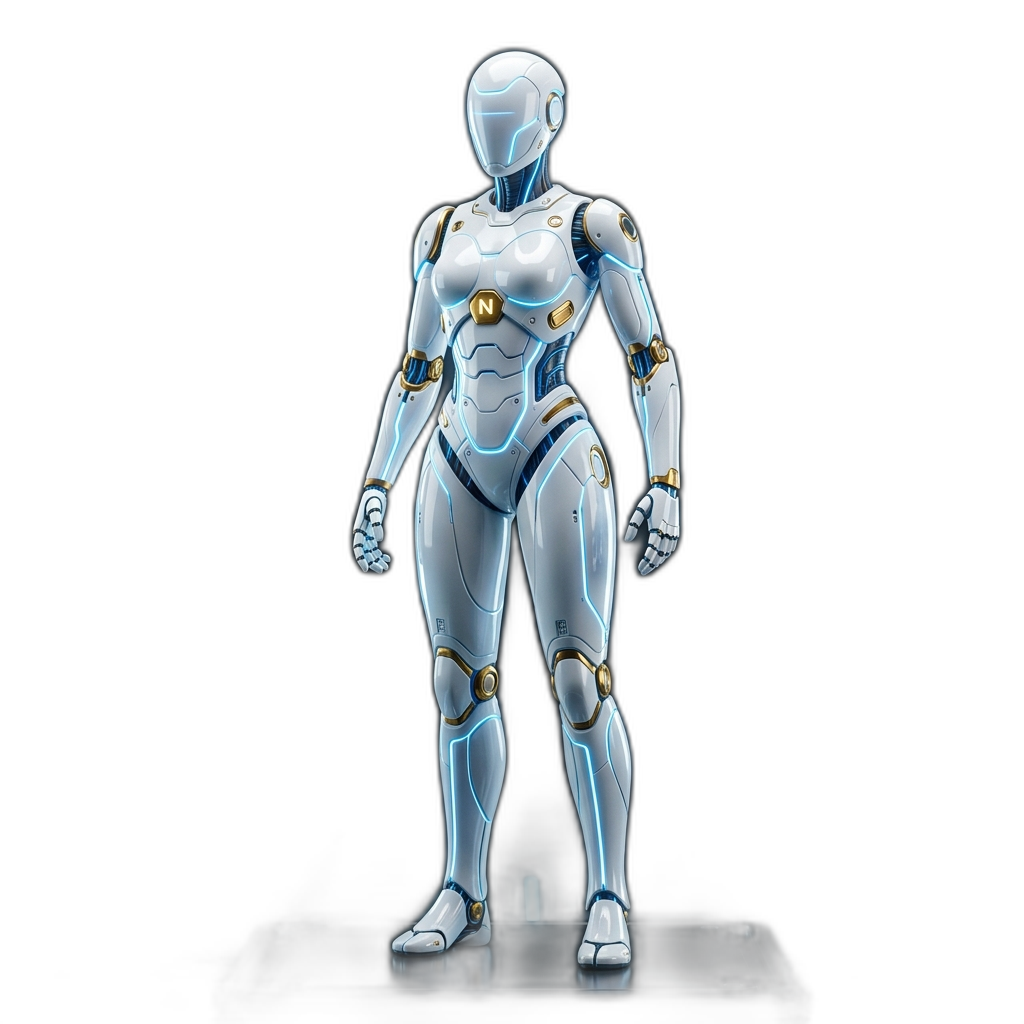
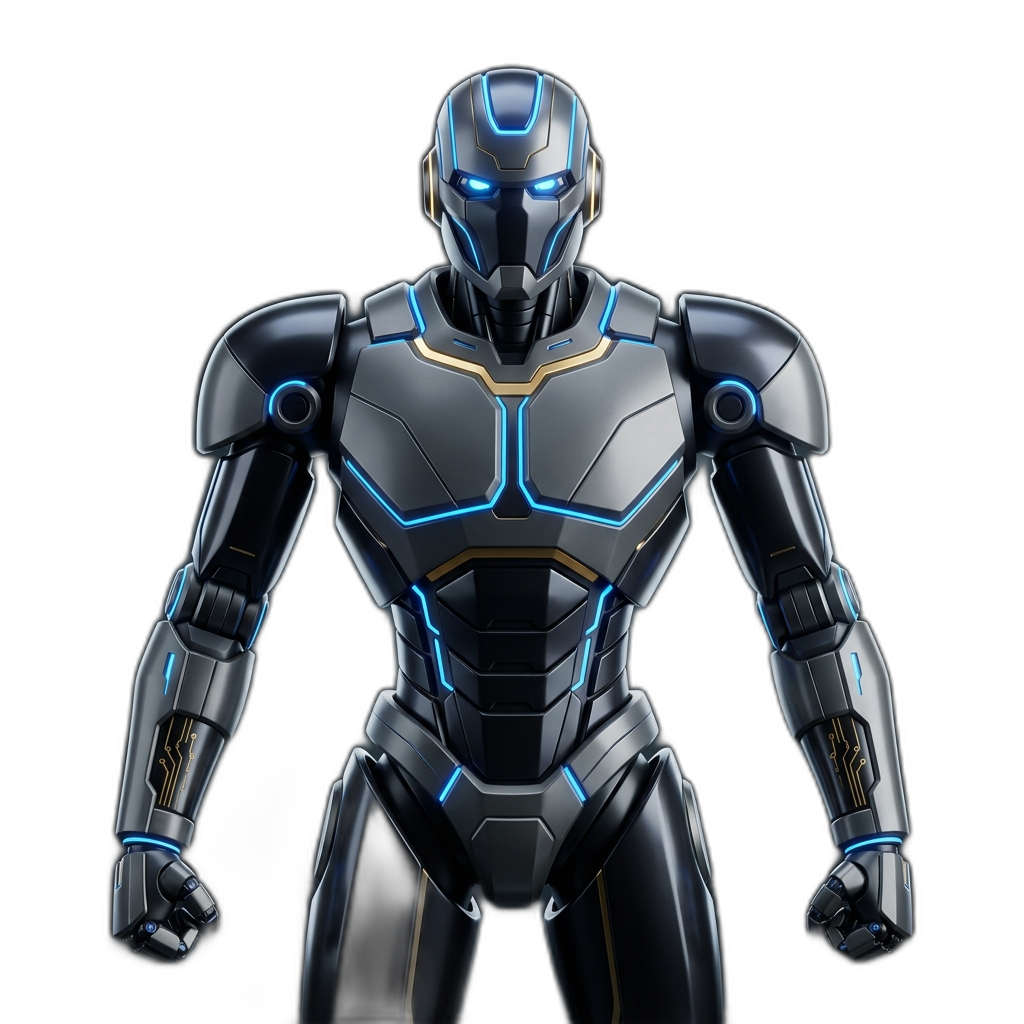
Hummanoid bot fix

diff --git a/src/index.css b/src/index.css
@@ -492,23 +492,15 @@ section {
       @apply flex items-center justify-center gap-5;
 
       .icon {
-        @apply flex justify-center items-center cursor-pointer transition-all duration-300 hover:scale-110 hover:-translate-y-1 shadow-[0_4px_14px_rgba(214,36,159,0.35)];
-        width: 2.5rem;
-        height: 2.5rem;
-        border-radius: 0.65rem;
-        background: radial-gradient(circle at 30% 107%, #fdf497 0%, #fdf497 5%, #fd5949 45%, #d6249f 60%, #285AEB 90%);
-      }
-
-      @media (min-width: 768px) {
-        .icon {
-          width: 3rem;
-          height: 3rem;
-          border-radius: 0.85rem;
-        }
+        @apply border border-black-50 bg-black-100 flex justify-center items-center rounded-xl size-10 md:size-12 cursor-pointer transition-all duration-300 hover:bg-black-50 hover:scale-110 hover:-translate-y-1;
       }
 
       img {
-        @apply inline-block w-5 h-5 md:w-[1.4rem] md:h-[1.4rem] object-contain;
+        @apply inline-block w-5 h-5 md:w-6 md:h-6 object-contain;
+      }
+
+      .github-icon img,
+      .reddit-icon img {
         filter: brightness(0) invert(1);
       }
     }
